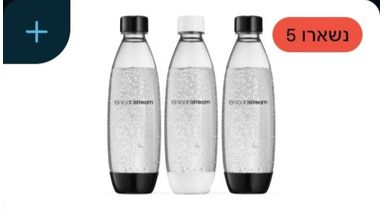
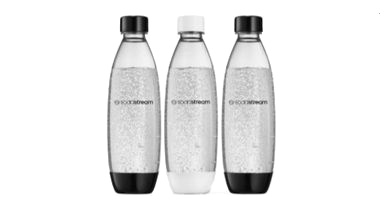
Maison & entretien : 15 photos retouchées par le gérant — tous les rayons sont faits
Le dernier rayon : 15 photos repère dont il a effacé le « + » et les
pastilles de Wolt. 636 retouchées sur 718 : les 678 articles en vente
montrent tous la photo libre du site (42) ou une photo de Wolt
retouchée (636). Les 82 autres photos repère sont celles d'articles
masqués ou d'articles qui ont déjà la photo du site.

Claude-Session: https://claude.ai/code/session_01JfiBMDfPpcu8d2j1eWQu1s

Changed region(s): [[0.0, 0.0, 0.1875, 0.3128], [0.6875, 0.0569, 0.9688, 0.2559], [0.9375, 0.0, 1.0, 0.0569]]

diff --git a/tests/reperes-wolt.test.ts b/tests/reperes-wolt.test.ts
@@ -198,7 +198,8 @@ describe("photos repère", () => {
     }
     // Les premiers lots : les douze étuis de capsules Nespresso, puis le reste de l'épicerie.
     expect(Object.keys(registre).filter((f) => f.startsWith("capsules-nespresso-")).length).toBeGreaterThanOrEqual(12);
-    expect(Object.keys(registre).length).toBeGreaterThanOrEqual(621); // les rayons Crèmerie (228), Pain (75), Boissons (157), Électronique (80), Boucherie & poisson (24), Apéro (22), Surgelés (3) et les deux photos de Wolt des fruits et légumes
+    // Les dix rayons sont passés : toutes les photos de Wolt des articles en vente (636) sont retouchées.
+    expect(Object.keys(registre).length).toBeGreaterThanOrEqual(636);
     // Une photo du site lui-même (libre de droits, `public/`) n'est jamais au registre : ce n'est pas une photo de Wolt.
     for (const fichier of Object.keys(registre)) expect(existsSync(`public/produits/frais/${fichier}`), fichier).toBe(false);
     // L'outil ne pose qu'une retouche : même taille, rien que la photo en service ne montrait déjà, rien d'écrit hors du dossier privé.

diff --git a/CLAUDE.md b/CLAUDE.md
@@ -72,7 +72,7 @@ npm run seed         # catégories + réglages ; seed:demo ajoute des produits d
 - **« Je n'ai pas d'images alors que je t'ai tout envoyé de Wolt »** (le gérant, 17 novembre 2026, deux captures de l'ACCUEIL PUBLIC à l'appui — des cartes d'articles avec l'icône du rayon à la place d'une photo). Ce jour-là, « mets-moi toutes les photos ! » voulait dire : montre les photos de Wolt AUX CLIENTS, sur les articles du site. On ne le fait pas, et on le lui dit sans détour : ces photos sont celles de Wolt (découpées dans ses captures, souvent avec le « + » et les pastilles de Wolt dessus) ; lui envoyer une capture ne les rend pas siennes, et les publier sur un site qui revend les articles de Wolt l'expose auprès de Wolt, dont il dépend pour ses achats. Elles restent dans son espace (les 718 articles en vente ont la leur) — c'était la réponse de l'après-midi ; prévenu, il a décidé autrement le soir même (« Photos de Wolt pour tout le monde », plus bas : sa décision, on ne la rediscute pas). Ce qu'on lui propose pour les remplacer : « Photos rapides » → « Coller » (une image qu'il choisit lui-même, de préférence la photo de la marque), la photo prise au téléphone quand il a l'article en main (« Ajouter »), ou l'accord écrit de Wolt — alors elles se publient. LEÇON : « sans images » peut désigner son espace (15 novembre) OU le site public (17 novembre) — regarder sa capture ; s'il n'y en a pas, lui demander de quel écran il parle AVANT de chercher une panne. Ce jour-là on a d'abord cherché une panne d'affichage dans son espace, à tort : il n'y en avait pas. Il en reste un contrôle utile, lisible de l'extérieur : `/admin/repere/etat` (sans connexion : des NOMBRES seulement, jamais un nom ni une photo) dit combien de photos de la liste sont lisibles sur le serveur — 718 sur 718 — et ce que le serveur qui répond a fait des demandes de photos depuis son démarrage (servies, refusées, inconnues, illisibles). Pièges rencontrés : `pkill -f "next start"` ne tue PAS le serveur (le processus s'appelle `next-server`) — un ancien serveur reste sur le port et répond à la place du nouveau : `pkill -f next-server` ; et `npm run build` signale « Dynamic filesystem access causes tracing of the whole project » pour cette route (c'est ce qui embarque les photos : ne pas le « corriger » sans relire `/admin/repere/etat` après la mise en ligne).
 - **Vue du gérant sur le site** (17 novembre 2026, sa réponse au refus ci-dessus : « oui mais grâce à ces images de Wolt je peux chercher les images qui correspondent à chaque produit — alors mets-moi les images »). C'est sur SON site qu'il regarde ses articles : quand il est connecté à son espace sur l'appareil, chaque carte et chaque fiche de la boutique dont l'article n'a pas encore sa photo montre celle de Wolt, étiquetée « Wolt ». Une seule porte : `lib/vue-gerant.ts` — `vueDuGerant()` dit qui regarde (`gerant`, `pourTous`, `photosDeWolt`, `etiquettes`), `reperesPour(liste)` donne la photo de chaque article sans photo (elle relit le `nomWolt` sans le sortir) ; les lectures de `lib/catalogue.ts` passent toutes par `versPublics`, qui pose `ProduitPublic.repere` (`{ photo, etiquette }`, ou `null` : le visiteur ne reçoit alors même pas l'adresse). Affichage : `components/admin/ApercuGerant.tsx` (`ApercuSurCarte` à la place de l'icône du rayon ; `ApercuSurFiche` : la photo entière et, pour le gérant, « Mettre sa photo » → `/admin/produits/photos#p-<id>`, la ligne de l'article visée d'office dans « Photos rapides »). L'étiquette « Wolt » et ce lien n'existent que pour le gérant (`repere.etiquette`) : le site ne nomme jamais Wolt devant un client. Sous l'en-tête, le bandeau `BandeauDuGerant` (`components/admin/VueDuGerant.tsx`, rien pour un client ; en français, de gauche à droite, même sur une page en hébreu) dit qui voit ces photos, mène à « Photos rapides » et aux réglages, et porte « Voir comme un client » / « Revenir à ma vue » (`changerLaVueDuSite`, cookie `vue_client`, douze heures : un simple choix d'affichage, qui ne vaut rien sans la connexion du gérant). Une image qu'il colle dans « Photos rapides » prend la place de la photo de Wolt, pour lui comme pour ses clients. Les pages de la boutique ne sont gardées par aucun cache partagé (`force-dynamic`, `private, no-store`) : ne jamais en ajouter un sans sortir `repere` de ce qui est gardé. Vérifier : `tests/navigateur/vue-gerant.mjs` (112 vérifications, dans les deux états du réglage ci-dessous ; il coche et décoche le réglage puis le remet : base locale seulement — `SANS_GERANT=1` sur le vrai site : la partie « client » seule, sans rien modifier), `tests/reperes-wolt.test.ts`.
 - **Photos de Wolt pour tout le monde** (décision du gérant, 17 novembre 2026 au soir : « le site a 0 client, on est 2 à bosser dessus et on ne peut pas se connecter à l'admin à chaque fois — active-moi les photos pour tout le monde »). Prévenu deux fois, le jour même, que ces photos sont celles de Wolt et des marques et de ce que cela risque auprès de Wolt, il a choisi : c'est SA décision, on l'applique sans la rediscuter. C'est un RÉGLAGE, pas du code : `Reglages.photosWoltPourTous` (Réglages → « Photos de Wolt pour tout le monde », faux par défaut dans le schéma), coché une seule fois par la mise en ligne (`montrerLesPhotosDeWoltATous`, clé dans `operationsFaites`) — s'il le décoche, il le reste. Coché : tout visiteur voit la photo de Wolt sur les articles sans photo (sans étiquette), et la route `/admin/repere/<fichier>` la sert sans connexion (`public, max-age=600` : décochée, la case fait effet en dix minutes au plus ; le réglage lui-même est relu toutes les dix secondes, `photosDeWoltPourTous`). Décoché : retour à la vue du gérant seule, la route exige de nouveau sa connexion. Dans les deux cas ces photos restent hors de `public/`, ne sont jamais copiées dans `photoUrl`, et les moteurs de recherche n'y vont pas (`/admin` fermé dans `robots.txt`, en-tête `noindex`). `/admin/repere/etat` porte `pourTous` : on lit de l'extérieur l'état du réglage. Ce qui reste vrai, à lui redire UNE fois quand il annoncera des clients (pas avant, pas à chaque message) : décocher la case, ou d'ici là remplacer les photos par les siennes dans « Photos rapides » — chaque image collée prend la place de celle de Wolt. Ne pas étendre : pas de photo de Wolt dans un e-mail, la carte d'aperçu de lien, le panier, ni comme photo enregistrée d'un article. S'il envoie une capture du site avec des photos de Wolt, c'est normal : le réglage est coché.
-- **Les photos de Wolt retouchées par le gérant** (24 novembre 2026 : « si je t'envoie un fichier zip, tu peux le décompresser ? j'ai mes nouvelles images dedans » — après avoir reçu l'export de toutes les photos du site, un ZIP rangé par rayon où chaque image porte le nom de l'article). Ses « nouvelles images » sont les MÊMES photos repère (384 × 211), dont il a effacé le « + » et les pastilles de Wolt : il les renvoie par lots, dans un ZIP, sous le nom que l'export leur a donné (« Capsules Nespresso Capriccio 60 g.jpg »). Chaque retouche REMPLACE le fichier de `prive/reperes-wolt` qu'elle retouche — même nom de fichier, donc rien d'autre ne change : le site la montre partout où il montrait l'ancienne (cartes, fiches, espace gérant), sous le même réglage « Photos de Wolt pour tout le monde », et le gérant connecté la voit toujours étiquetée « Wolt ». Elle RESTE une photo repère : jamais dans `public/`, jamais copiée dans `photoUrl` — effacer le « + » ne change pas à qui est la photo ; on le lui a dit une fois, en lui laissant le choix d'en faire les photos définitives de ces articles s'il le demande en le sachant. Poser un lot : décompresser l'archive dans un dossier vide à elle (données reçues : on n'en lit que les points), `npx tsx tests/outils/poser-photos-retouchees.ts <dossier>` (essai à blanc), puis `--poser`. L'outil ne pose qu'une vraie retouche — un article de ce nom existe, même taille que la photo en service, et ce que l'image montre était DÉJÀ dans la photo en service (`ressemblance` : une retouche efface et n'ajoute rien — le « + », les pastilles, l'étiquette de poids de Wolt, souvent tout le fond gris d'une photo du traiteur ou de la boulangerie, DÉTOURÉE : il peut n'en rester qu'un cinquième, d'où des seuils larges, 80 % de « déjà là » et 10 % de « gardé », qui restent très loin d'une autre image — 3 à 13 % pour un autre article ; un article BLANC sur fond blanc (adaptateur, câble, chargeur Apple) ne « montre » presque que le « + » de Wolt, et passe parce que l'image est restée intacte presque partout, `estUneRetouche` ; une image glissée sous un mauvais nom, ou une autre photo du même article, est refusée), moins de 40 Ko — et note le lot dans `prive/reperes-retouches.json`. Où l'on en est : 621 sur 718 (le 24 novembre : trois dossiers de dix, puis les rayons Crèmerie, Pain, Boissons, Fruits & légumes, Boucherie & poisson, Surgelés, Apéro & snacks et Chargeurs & électronique entiers) — tout « Courses & épicerie » (27 articles, dont les 12 étuis Nespresso), toute la « Crèmerie & œufs » (231 ; ses quatre boîtes d'œufs ont déjà la photo libre du site), tout « Pain & pâtisserie » (75), toutes les « Boissons » (157), les deux seules photos de Wolt des « Fruits & légumes » (betteraves, menthe), toute la « Boucherie & poisson » (24), les « Surgelés » (3), tout « Apéro & snacks » (22) et tout « Chargeurs & électronique » (80) ; il reste 15 photos de Wolt non retouchées sur des articles en vente, toutes dans « Maison & entretien ». **Il détoure aussi les photos LIBRES du site** (rayon « Fruits & légumes », `public/produits/frais`, 600 × 600) : sur les 38 de ce rayon, sept sont revenues détourées sur blanc (aubergines, citrons, laitue romaine, oignons verts, poivrons tricolores, pommes de terre rouges, pommes Granny Smith), deux seulement réenregistrées (ail, oignons jaunes : laissées) et 29 inchangées. Une photo du site détourée prend la place du MÊME fichier de `public/produits/frais` — la seule écriture de l'outil hors du dossier privé, et seulement si l'image est cette photo du site retouchée (même taille, rien qu'elle ne montrait déjà : une photo de Wolt ne peut pas y arriver). Les licences (CC BY, CC BY-SA) permettent de modifier à condition de le dire : la photo est marquée `detouree` dans `lib/credits-photos.ts`, sa ligne de la page /credits porte « fond retiré » (`credits.fondRetire`, cinq langues) et le paragraphe « Modifications » le dit (`tests/photos.test.ts`). La bannière de l'accueil et l'affiche A4 sont des images à part : elles gardent les anciennes photos tant qu'on ne les refait pas. Il renvoie maintenant des RAYONS ENTIERS, dans le dossier que l'export leur a donné (« 02 - Crèmerie & œufs », 235 images) : l'outil y range à part, sous « Laissées » et sans échouer, ce qui n'est pas à poser — la photo du site elle-même (les œufs : `public/produits/frais`, 600 × 600, pas une photo de Wolt), une image qu'il n'a pas touchée, et une photo déjà retouchée DAVANTAGE dans un lot précédent (les trois Actimel : dans le rayon entier il n'avait effacé que le « + », dans son dossier 3 les bandeaux aussi — on garde la mieux retouchée, et on le lui dit). Dans un rayon entier il n'efface souvent que le « + » : les bandeaux de couleur de Wolt (« 16 יחידות », le goût) restent sur la photo — c'est son choix, ne pas les retirer à sa place. Ses archives arrivent avec des noms de fichiers aux accents décomposés (« é » en deux signes) : l'outil les lit quand même (`normalize("NFC")`). Regarder tout de même le lot sur une planche avant de le poser, lui dire le compte (posées, refusées et pourquoi) et ce qui manque. Une AUTRE photo du même article (une vraie photo de marque, plus grande) n'est pas une retouche : elle se pose comme photo de l'article (« Photos rapides »), pas ici. Après la mise en ligne, l'ancienne image peut rester dix minutes dans les caches (`max-age=600`). `tests/reperes-wolt.test.ts`.
+- **Les photos de Wolt retouchées par le gérant** (24 novembre 2026 : « si je t'envoie un fichier zip, tu peux le décompresser ? j'ai mes nouvelles images dedans » — après avoir reçu l'export de toutes les photos du site, un ZIP rangé par rayon où chaque image porte le nom de l'article). Ses « nouvelles images » sont les MÊMES photos repère (384 × 211), dont il a effacé le « + » et les pastilles de Wolt : il les renvoie par lots, dans un ZIP, sous le nom que l'export leur a donné (« Capsules Nespresso Capriccio 60 g.jpg »). Chaque retouche REMPLACE le fichier de `prive/reperes-wolt` qu'elle retouche — même nom de fichier, donc rien d'autre ne change : le site la montre partout où il montrait l'ancienne (cartes, fiches, espace gérant), sous le même réglage « Photos de Wolt pour tout le monde », et le gérant connecté la voit toujours étiquetée « Wolt ». Elle RESTE une photo repère : jamais dans `public/`, jamais copiée dans `photoUrl` — effacer le « + » ne change pas à qui est la photo ; on le lui a dit une fois, en lui laissant le choix d'en faire les photos définitives de ces articles s'il le demande en le sachant. Poser un lot : décompresser l'archive dans un dossier vide à elle (données reçues : on n'en lit que les points), `npx tsx tests/outils/poser-photos-retouchees.ts <dossier>` (essai à blanc), puis `--poser`. L'outil ne pose qu'une vraie retouche — un article de ce nom existe, même taille que la photo en service, et ce que l'image montre était DÉJÀ dans la photo en service (`ressemblance` : une retouche efface et n'ajoute rien — le « + », les pastilles, l'étiquette de poids de Wolt, souvent tout le fond gris d'une photo du traiteur ou de la boulangerie, DÉTOURÉE : il peut n'en rester qu'un cinquième, d'où des seuils larges, 80 % de « déjà là » et 10 % de « gardé », qui restent très loin d'une autre image — 3 à 13 % pour un autre article ; un article BLANC sur fond blanc (adaptateur, câble, chargeur Apple) ne « montre » presque que le « + » de Wolt, et passe parce que l'image est restée intacte presque partout, `estUneRetouche` ; une image glissée sous un mauvais nom, ou une autre photo du même article, est refusée), moins de 40 Ko — et note le lot dans `prive/reperes-retouches.json`. Où l'on en est : **c'est fini pour ce qui est en vente** — 636 sur 718, en un jour (24 novembre : trois dossiers de dix, puis les dix rayons entiers, de « 02 - Crèmerie & œufs » à « 10 - Maison & entretien »). Les 678 articles en vente montrent tous soit la photo libre du site (42), soit une photo de Wolt retouchée (636 : Crèmerie 231, Boissons 157, Électronique 80, Pain 75, Épicerie 27, Boucherie & poisson 24, Apéro 22, Entretien 15, Surgelés 3, Fruits & légumes 2). Les 82 photos repère non retouchées ne se voient pas sur la boutique : 40 sont celles d'articles masqués (ses retraits du 19 novembre — elles reviendraient telles quelles, avec le « + », si un de ces articles était remis en vente : le lui dire ce jour-là) et 42 celles d'articles qui ont déjà la photo du site (elles ne servent que dans son espace). Un nouvel article ajouté d'après une capture arrivera avec le « + » de Wolt : lui renvoyer sa photo à retoucher (l'export du rayon). **Il détoure aussi les photos LIBRES du site** (rayon « Fruits & légumes », `public/produits/frais`, 600 × 600) : sur les 38 de ce rayon, sept sont revenues détourées sur blanc (aubergines, citrons, laitue romaine, oignons verts, poivrons tricolores, pommes de terre rouges, pommes Granny Smith), deux seulement réenregistrées (ail, oignons jaunes : laissées) et 29 inchangées. Une photo du site détourée prend la place du MÊME fichier de `public/produits/frais` — la seule écriture de l'outil hors du dossier privé, et seulement si l'image est cette photo du site retouchée (même taille, rien qu'elle ne montrait déjà : une photo de Wolt ne peut pas y arriver). Les licences (CC BY, CC BY-SA) permettent de modifier à condition de le dire : la photo est marquée `detouree` dans `lib/credits-photos.ts`, sa ligne de la page /credits porte « fond retiré » (`credits.fondRetire`, cinq langues) et le paragraphe « Modifications » le dit (`tests/photos.test.ts`). La bannière de l'accueil et l'affiche A4 sont des images à part : elles gardent les anciennes photos tant qu'on ne les refait pas. Il renvoie maintenant des RAYONS ENTIERS, dans le dossier que l'export leur a donné (« 02 - Crèmerie & œufs », 235 images) : l'outil y range à part, sous « Laissées » et sans échouer, ce qui n'est pas à poser — la photo du site elle-même (les œufs : `public/produits/frais`, 600 × 600, pas une photo de Wolt), une image qu'il n'a pas touchée, et une photo déjà retouchée DAVANTAGE dans un lot précédent (les trois Actimel : dans le rayon entier il n'avait effacé que le « + », dans son dossier 3 les bandeaux aussi — on garde la mieux retouchée, et on le lui dit). Dans un rayon entier il n'efface souvent que le « + » : les bandeaux de couleur de Wolt (« 16 יחידות », le goût) restent sur la photo — c'est son choix, ne pas les retirer à sa place. Ses archives arrivent avec des noms de fichiers aux accents décomposés (« é » en deux signes) : l'outil les lit quand même (`normalize("NFC")`). Regarder tout de même le lot sur une planche avant de le poser, lui dire le compte (posées, refusées et pourquoi) et ce qui manque. Une AUTRE photo du même article (une vraie photo de marque, plus grande) n'est pas une retouche : elle se pose comme photo de l'article (« Photos rapides »), pas ici. Après la mise en ligne, l'ancienne image peut rester dix minutes dans les caches (`max-age=600`). `tests/reperes-wolt.test.ts`.
 - **Ce que Wolt ne vend pas est SUPPRIMÉ du site** (décision du gérant, 15 novembre 2026 : « tout ce que tu ne vois pas sur les photos, tu me le supprimes — je ne peux pas faire des produits que Wolt n'a pas »). La seule preuve qu'un article n'est pas chez Wolt est la page ENTIÈRE de son rayon : une liste par page entière reçue, dans `prisma/absents-de-wolt.ts` (`ABSENTS_DE_WOLT`), appliquée une seule fois par `supprimerLesAbsentsDeWolt` (supprimés pour de bon — masqués, ils resteraient dans son espace ; une commande passée garde sa ligne). Une page partielle (« Les plus commandés », « Promotions », des captures d'écran qui ne se recouvrent pas) ne prouve RIEN : ne rien supprimer d'après elle, et le lui dire — une suppression « de tout ce qui n'a pas de photo » aurait emporté un tiers du catalogue, dont des rayons entiers dont il n'a jamais envoyé la page. Fait : le rayon Boissons (page entière du 15 novembre, 261 cartes) — 16 boissons supprimées, 157 restent. Ne sont jamais dans ces listes : un article que Wolt affichait lors d'un relevé précédent et plus ce jour-là (il a son nom exact, son prix, souvent sa photo ; Wolt peut le remettre en rayon : on le signale au gérant, qui décide de le masquer) ; un article de sa liste dont il a noté lui-même le prix d'achat (il l'a trouvé sur Wolt : `prixAchat: null` dans la condition). Pour un autre rayon : lui demander la page entière (« כל הפריטים » du rayon, défilée jusqu'en bas), comparer TOUS les articles en vente du rayon à la page — pas seulement ceux sans photo —, lui montrer la liste, puis ajouter une entrée (`tests/absents-de-wolt.test.ts`).
 - **Ce qui a sa photo de Wolt se vend** (décision du gérant, 16 novembre 2026 : « mets-moi même les produits que tu as supprimés, si tu as les images »). Les 21 articles SUPPRIMÉS n'avaient aucune image (ils l'ont été parce que Wolt ne les montrait pas) : aucun n'est revenu. Mais 40 articles MASQUÉS avaient leur photo ; on lui a posé la question groupe par groupe, avec la raison de chaque masquage, et il a choisi les trois : 7 boissons que Wolt n'affichait plus le 15 novembre, 20 poissons surgelés, 13 viandes et volailles (`prisma/remise-en-vente-1116.ts`, `remettreEnVenteCeQuiAUnePhoto`, une seule fois, seulement un article encore masqué qui a un prix ; `tests/remise-en-vente-avec-photo.test.ts`). Sa règle — je reconnais l'article, donc je le vends — passe donc AVANT ses décisions du 11 novembre (viande : cacherout) et du 15 (poisson surgelé, boissons absentes de la page entière), mais pour ces 40 articles seulement : les 27 viandes, les 2 poissons surgelés et les 339 autres articles sans photo restent masqués, l'alcool reste « à réfléchir », la liste Dynamica reste masquée. Quand une capture montre un article masqué, il reçoit sa photo et revient en vente — SAUF ce qu'il a retiré lui-même le 19 novembre (plus bas) : la viande et le poulet frais, le poisson frais et surgelé, la viande surgelée et les glaces ne reviennent que sur sa demande ; ne pas AJOUTER de nouveaux articles de viande pour autant (`tests/retrait-viande.test.ts`). Le rayon où la viande revient a repris son nom, « Boucherie & poisson » (« Meat & fish », « Мясо и рыба », « בשר ודגים », « Carne y pescado » : `rayons.poisson` des cinq dictionnaires), à la MÊME adresse `poisson` ; la viande s'y range dans le sous-rayon « Viande & volaille », qui existait déjà. Résultat ce jour-là : 718 articles en vente, qui ont tous leur photo de Wolt (Crèmerie 235, Boissons 157, Électronique 80, Pain 75, Boucherie & poisson 53, Fruits & légumes 40, Épicerie 27, Apéro 22, Entretien 15, Surgelés 14) — 678 depuis ses retraits du 19 novembre (Boucherie & poisson 24, Surgelés 3) ; plus aucun rayon ne tient en 12 articles (`parcours-rayons.mjs` suit les surgelés comme un rayon à sous-rayons). Les 7 boissons peuvent manquer sur Wolt le jour d'une commande : il le sait.
 - **Viande et poulet frais : retirés** (décision du gérant, 19 novembre 2026 : « enlève-moi tout ce qui est viande, poulet frais »). Sept des treize viandes revenues en vente le 16 — celles dont le nom dit « frais », toutes au poids, rayon « Boucherie & poisson » : cinq poulets (blanc, aiguillettes, émincé, steaks de pargit, assortiment) et deux bœufs (entrecôte, émincé) — sont MASQUÉES une seule fois (`VIANDE_FRAICHE`, `prisma/retrait-viande-fraiche-1119.ts` ; `retirerLaViandeFraiche`, lancée APRÈS `remettreEnVenteCeQuiAUnePhoto` : sur une base neuve celle-ci les remet d'abord en vente). Masquées, pas supprimées : elles gardent nom, prix et photo dans son espace ; ce qu'il remet en vente lui-même y reste. Il n'a parlé que du FRAIS : restent en vente la charcuterie sous vide (deux saucisses et deux pastramis Tirat Zvi, seuls articles du sous-rayon « Viande & volaille » désormais) et les deux surgelés (blanc de poulet, bœuf haché) — on le lui a dit ; s'il veut les retirer aussi, une opération de plus, sur sa demande. Désormais une capture de Wolt ne ramène plus de viande ni de poulet frais en vente : seulement s'il le demande. 711 articles en vente après ce retrait, Boucherie & poisson 46 (`tests/retrait-viande-fraiche.test.ts`).
